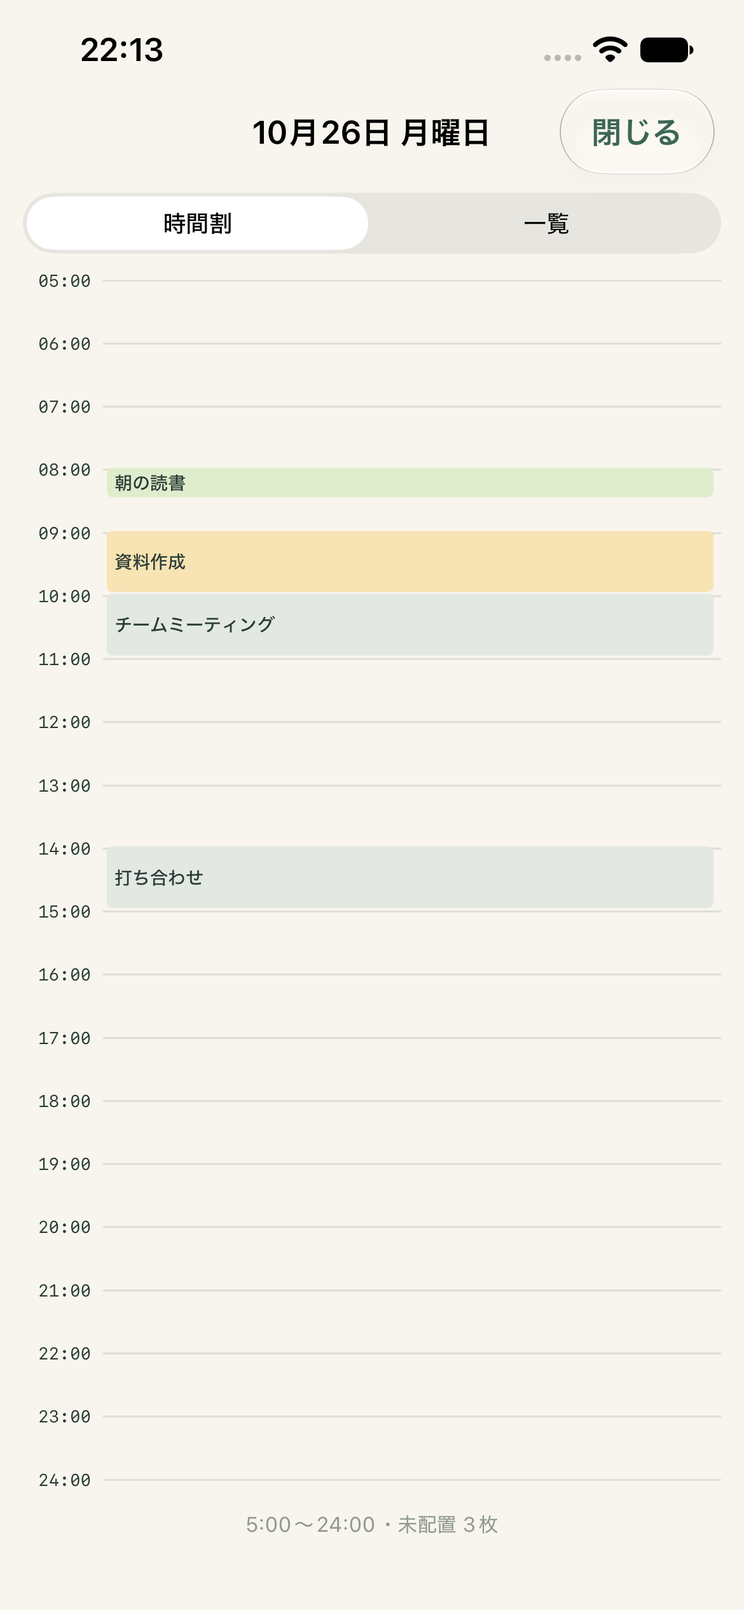
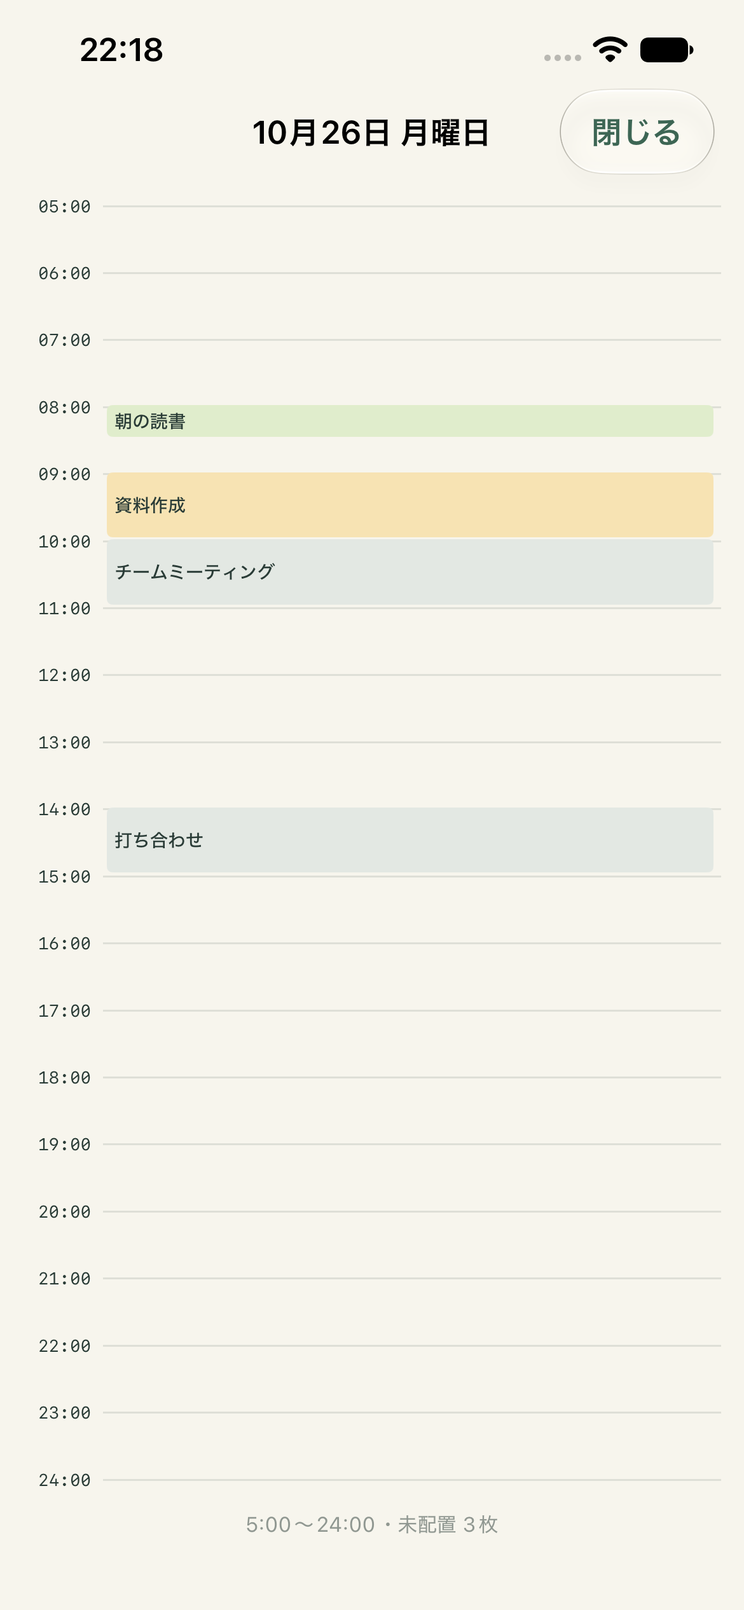
Simplify full-screen view to timetable only

diff --git a/docs/screenshots/index.html b/docs/screenshots/index.html
@@ -1,1 +1,1 @@
-<!doctype html><html lang="ja"><meta charset="utf-8"><meta name="viewport" content="width=device-width,initial-scale=1"><title>予定館・実機能確認</title><style>body{background:#f7f5ed;color:#293b35;font:15px system-ui;margin:32px}h1{font-size:24px}.grid{display:grid;grid-template-columns:repeat(auto-fit,minmax(240px,1fr));gap:28px}figure{margin:0}img{width:100%;max-width:390px;border-radius:24px;box-shadow:0 8px 32px #293b3520}figcaption{margin:12px 0 20px}p{line-height:1.8}</style><h1>予定館 / シミュレーター動作確認</h1><p>iPhone 17e・iOS 27。XCTestで実際に操作した画面です。デモ表記のある画面はサンプル予定、カレンダー画面はシミュレーターのEventKitに登録した検証用予定を使用しています。</p><div class="grid"><figure><a href="01-day-planner.png"><img src="01-day-planner.png" alt="01-day-planner"></a><figcaption>01-day-planner</figcaption></figure><figure><a href="02-presets.png"><img src="02-presets.png" alt="02-presets"></a><figcaption>02-presets</figcaption></figure><figure><a href="03-sticky-editor.png"><img src="03-sticky-editor.png" alt="03-sticky-editor"></a><figcaption>03-sticky-editor</figcaption></figure><figure><a href="04-overlap-after-drag.png"><img src="04-overlap-after-drag.png" alt="04-overlap-after-drag"></a><figcaption>04-overlap-after-drag</figcaption></figure><figure><a href="05-resize-overlap.png"><img src="05-resize-overlap.png" alt="05-resize-overlap"></a><figcaption>05-resize-overlap</figcaption></figure><figure><a href="06-day-overview.png"><img src="06-day-overview.png" alt="06-day-overview"></a><figcaption>06-day-overview</figcaption></figure><figure><a href="07-calendar-settings.png"><img src="07-calendar-settings.png" alt="07-calendar-settings"></a><figcaption>07-calendar-settings</figcaption></figure><figure><a href="08-real-calendar-events.png"><img src="08-real-calendar-events.png" alt="08-real-calendar-events"></a><figcaption>08-real-calendar-events</figcaption></figure><figure><a href="09-start-time-drag.png"><img src="09-start-time-drag.png" alt="09-start-time-drag"></a><figcaption>09-start-time-drag</figcaption></figure><figure><a href="10-swipe-next-day.png"><img src="10-swipe-next-day.png" alt="10-swipe-next-day"></a><figcaption>10-swipe-next-day</figcaption></figure><figure><a href="11-color-settings.png"><img src="11-color-settings.png" alt="11-color-settings"></a><figcaption>11-color-settings</figcaption></figure><figure><a href="12-named-color-picker.png"><img src="12-named-color-picker.png" alt="12-named-color-picker"></a><figcaption>12-named-color-picker</figcaption></figure><figure><a href="13-custom-colors.png"><img src="13-custom-colors.png" alt="13-custom-colors"></a><figcaption>13-custom-colors</figcaption></figure><figure><a href="14-expanded-color-picker.png"><img src="14-expanded-color-picker.png" alt="14-expanded-color-picker"></a><figcaption>14-expanded-color-picker</figcaption></figure><figure><a href="15-five-am-plan.png"><img src="15-five-am-plan.png" alt="15-five-am-plan"></a><figcaption>15-five-am-plan</figcaption></figure><figure><a href="16-planning-hours-settings.png"><img src="16-planning-hours-settings.png" alt="16-planning-hours-settings"></a><figcaption>16-planning-hours-settings</figcaption></figure><figure><a href="17-custom-hours-and-outside-sticky.png"><img src="17-custom-hours-and-outside-sticky.png" alt="17-custom-hours-and-outside-sticky"></a><figcaption>17-custom-hours-and-outside-sticky</figcaption></figure><figure><a href="18-two-zone-planner.png"><img src="18-two-zone-planner.png" alt="18-two-zone-planner"></a><figcaption>18-two-zone-planner</figcaption></figure><figure><a href="19-detail-memo.png"><img src="19-detail-memo.png" alt="19-detail-memo"></a><figcaption>19-detail-memo</figcaption></figure><figure><a href="20-three-zone-planner.png"><img src="20-three-zone-planner.png" alt="20-three-zone-planner"></a><figcaption>20-three-zone-planner</figcaption></figure><figure><a href="21-switch-to-schedule-details.png"><img src="21-switch-to-schedule-details.png" alt="21-switch-to-schedule-details"></a><figcaption>21-switch-to-schedule-details</figcaption></figure><figure><a href="22-five-minute-zoom.png"><img src="22-five-minute-zoom.png" alt="22-five-minute-zoom"></a><figcaption>22-five-minute-zoom</figcaption></figure><figure><a href="23-five-minute-standard.png"><img src="23-five-minute-standard.png" alt="23-five-minute-standard"></a><figcaption>23-five-minute-standard</figcaption></figure><figure><a href="24-pinch-timeline.png"><img src="24-pinch-timeline.png" alt="24-pinch-timeline"></a><figcaption>24-pinch-timeline</figcaption></figure><figure><a href="25-scroll-on-event.png"><img src="25-scroll-on-event.png" alt="25-scroll-on-event"></a><figcaption>25-scroll-on-event</figcaption></figure><figure><a href="26-daily-preset-count.png"><img src="26-daily-preset-count.png" alt="26-daily-preset-count"></a><figcaption>26-daily-preset-count</figcaption></figure><figure><a href="27-daily-stickies.png"><img src="27-daily-stickies.png" alt="27-daily-stickies"></a><figcaption>27-daily-stickies</figcaption></figure><figure><a href="28-fullscreen-day-timeline.png"><img src="28-fullscreen-day-timeline.png" alt="28-fullscreen-day-timeline"></a><figcaption>28-fullscreen-day-timeline</figcaption></figure><figure><a href="29-fullscreen-day-list.png"><img src="29-fullscreen-day-list.png" alt="29-fullscreen-day-list"></a><figcaption>29-fullscreen-day-list</figcaption></figure><figure><a href="30-fullscreen-entry.png"><img src="30-fullscreen-entry.png" alt="30-fullscreen-entry"></a><figcaption>30-fullscreen-entry</figcaption></figure></div></html>
+<!doctype html><html lang="ja"><meta charset="utf-8"><meta name="viewport" content="width=device-width,initial-scale=1"><title>予定館・実機能確認</title><style>body{background:#f7f5ed;color:#293b35;font:15px system-ui;margin:32px}h1{font-size:24px}.grid{display:grid;grid-template-columns:repeat(auto-fit,minmax(240px,1fr));gap:28px}figure{margin:0}img{width:100%;max-width:390px;border-radius:24px;box-shadow:0 8px 32px #293b3520}figcaption{margin:12px 0 20px}p{line-height:1.8}</style><h1>予定館 / シミュレーター動作確認</h1><p>iPhone 17e・iOS 27。XCTestで実際に操作した画面です。デモ表記のある画面はサンプル予定、カレンダー画面はシミュレーターのEventKitに登録した検証用予定を使用しています。</p><div class="grid"><figure><a href="01-day-planner.png"><img src="01-day-planner.png" alt="01-day-planner"></a><figcaption>01-day-planner</figcaption></figure><figure><a href="02-presets.png"><img src="02-presets.png" alt="02-presets"></a><figcaption>02-presets</figcaption></figure><figure><a href="03-sticky-editor.png"><img src="03-sticky-editor.png" alt="03-sticky-editor"></a><figcaption>03-sticky-editor</figcaption></figure><figure><a href="04-overlap-after-drag.png"><img src="04-overlap-after-drag.png" alt="04-overlap-after-drag"></a><figcaption>04-overlap-after-drag</figcaption></figure><figure><a href="05-resize-overlap.png"><img src="05-resize-overlap.png" alt="05-resize-overlap"></a><figcaption>05-resize-overlap</figcaption></figure><figure><a href="06-day-overview.png"><img src="06-day-overview.png" alt="06-day-overview"></a><figcaption>06-day-overview</figcaption></figure><figure><a href="07-calendar-settings.png"><img src="07-calendar-settings.png" alt="07-calendar-settings"></a><figcaption>07-calendar-settings</figcaption></figure><figure><a href="08-real-calendar-events.png"><img src="08-real-calendar-events.png" alt="08-real-calendar-events"></a><figcaption>08-real-calendar-events</figcaption></figure><figure><a href="09-start-time-drag.png"><img src="09-start-time-drag.png" alt="09-start-time-drag"></a><figcaption>09-start-time-drag</figcaption></figure><figure><a href="10-swipe-next-day.png"><img src="10-swipe-next-day.png" alt="10-swipe-next-day"></a><figcaption>10-swipe-next-day</figcaption></figure><figure><a href="11-color-settings.png"><img src="11-color-settings.png" alt="11-color-settings"></a><figcaption>11-color-settings</figcaption></figure><figure><a href="12-named-color-picker.png"><img src="12-named-color-picker.png" alt="12-named-color-picker"></a><figcaption>12-named-color-picker</figcaption></figure><figure><a href="13-custom-colors.png"><img src="13-custom-colors.png" alt="13-custom-colors"></a><figcaption>13-custom-colors</figcaption></figure><figure><a href="14-expanded-color-picker.png"><img src="14-expanded-color-picker.png" alt="14-expanded-color-picker"></a><figcaption>14-expanded-color-picker</figcaption></figure><figure><a href="15-five-am-plan.png"><img src="15-five-am-plan.png" alt="15-five-am-plan"></a><figcaption>15-five-am-plan</figcaption></figure><figure><a href="16-planning-hours-settings.png"><img src="16-planning-hours-settings.png" alt="16-planning-hours-settings"></a><figcaption>16-planning-hours-settings</figcaption></figure><figure><a href="17-custom-hours-and-outside-sticky.png"><img src="17-custom-hours-and-outside-sticky.png" alt="17-custom-hours-and-outside-sticky"></a><figcaption>17-custom-hours-and-outside-sticky</figcaption></figure><figure><a href="18-two-zone-planner.png"><img src="18-two-zone-planner.png" alt="18-two-zone-planner"></a><figcaption>18-two-zone-planner</figcaption></figure><figure><a href="19-detail-memo.png"><img src="19-detail-memo.png" alt="19-detail-memo"></a><figcaption>19-detail-memo</figcaption></figure><figure><a href="20-three-zone-planner.png"><img src="20-three-zone-planner.png" alt="20-three-zone-planner"></a><figcaption>20-three-zone-planner</figcaption></figure><figure><a href="21-switch-to-schedule-details.png"><img src="21-switch-to-schedule-details.png" alt="21-switch-to-schedule-details"></a><figcaption>21-switch-to-schedule-details</figcaption></figure><figure><a href="22-five-minute-zoom.png"><img src="22-five-minute-zoom.png" alt="22-five-minute-zoom"></a><figcaption>22-five-minute-zoom</figcaption></figure><figure><a href="23-five-minute-standard.png"><img src="23-five-minute-standard.png" alt="23-five-minute-standard"></a><figcaption>23-five-minute-standard</figcaption></figure><figure><a href="24-pinch-timeline.png"><img src="24-pinch-timeline.png" alt="24-pinch-timeline"></a><figcaption>24-pinch-timeline</figcaption></figure><figure><a href="25-scroll-on-event.png"><img src="25-scroll-on-event.png" alt="25-scroll-on-event"></a><figcaption>25-scroll-on-event</figcaption></figure><figure><a href="26-daily-preset-count.png"><img src="26-daily-preset-count.png" alt="26-daily-preset-count"></a><figcaption>26-daily-preset-count</figcaption></figure><figure><a href="27-daily-stickies.png"><img src="27-daily-stickies.png" alt="27-daily-stickies"></a><figcaption>27-daily-stickies</figcaption></figure><figure><a href="28-fullscreen-day-timeline.png"><img src="28-fullscreen-day-timeline.png" alt="28-fullscreen-day-timeline"></a><figcaption>28-fullscreen-day-timeline</figcaption></figure><figure><a href="30-fullscreen-entry.png"><img src="30-fullscreen-entry.png" alt="30-fullscreen-entry"></a><figcaption>30-fullscreen-entry</figcaption></figure></div></html>

diff --git a/ios/Yoteikan/PlannerView.swift b/ios/Yoteikan/PlannerView.swift
@@ -9,22 +9,20 @@ private struct FullDayOverview: View {
     let stickies: [Sticky]
     let fixed: [FixedEvent]
     let colors: [StickyColor]
-    @State private var listMode = false
     private struct Item: Identifiable {
         let id: String
         let title: String
         let start: Int
         let end: Int
         let tone: Int?
-        let memo: String
     }
     private var allItems: [Item] {
         let notes = stickies.compactMap { task -> Item? in
             guard let start = task.start else { return nil }
-            return Item(id: task.id.uuidString, title: task.title, start: start, end: start + task.minutes, tone: task.tone, memo: task.memo)
+            return Item(id: task.id.uuidString, title: task.title, start: start, end: start + task.minutes, tone: task.tone)
         }
         let events = fixed.filter { !$0.allDay }.map {
-            Item(id: "fixed-" + $0.id, title: $0.title, start: $0.start, end: $0.end, tone: nil, memo: "")
+            Item(id: "fixed-" + $0.id, title: $0.title, start: $0.start, end: $0.end, tone: nil)
         }
         return (notes + events).sorted {
             if $0.start != $1.start { return $0.start < $1.start }
@@ -45,23 +43,16 @@ private struct FullDayOverview: View {
     var body: some View {
         NavigationStack {
             VStack(spacing: 8) {
-                Picker("表示", selection: $listMode) {
-                    Text("時間割").tag(false)
-                    Text("一覧").tag(true)
-                }.pickerStyle(.segmented).padding(.horizontal, 12).accessibilityIdentifier("fullDayMode")
-                if listMode { scheduleList }
-                else {
-                    if !fixed.filter(\.allDay).isEmpty {
-                        ScrollView(.horizontal, showsIndicators: false) {
-                            HStack { ForEach(fixed.filter(\.allDay)) { event in
-                                Label(event.title, systemImage: "sun.max").font(.caption).padding(6).background(.white, in: Capsule())
-                            } }
-                        }.padding(.horizontal, 12)
-                    }
-                    fittedTimeline
-                    Text("\(hours.label)・未配置 \(unplaced.count)枚\(allItems.count == items.count ? "" : "・時間外 \(allItems.count - items.count)件")")
-                        .font(.caption2).foregroundStyle(.secondary).padding(.bottom, 4)
+                if !fixed.filter(\.allDay).isEmpty {
+                    ScrollView(.horizontal, showsIndicators: false) {
+                        HStack { ForEach(fixed.filter(\.allDay)) { event in
+                            Label(event.title, systemImage: "sun.max").font(.caption).padding(6).background(.white, in: Capsule())
+                        } }
+                    }.padding(.horizontal, 12)
                 }
+                fittedTimeline
+                Text("\(hours.label)・未配置 \(unplaced.count)枚\(allItems.count == items.count ? "" : "・時間外 \(allItems.count - items.count)件")")
+                    .font(.caption2).foregroundStyle(.secondary).padding(.bottom, 4)
             }.background(paper).foregroundStyle(ink)
                 .navigationTitle(date.formatted(.dateTime.month().day().weekday(.wide)))
                 .navigationBarTitleDisplayMode(.inline)
@@ -70,37 +61,6 @@ private struct FullDayOverview: View {
                 } }
                 .accessibilityElement(children: .contain).accessibilityIdentifier("fullDayOverview")
         }.tint(accent)
-    }
-    private var scheduleList: some View {
-        List {
-            if !fixed.filter(\.allDay).isEmpty {
-                Section("終日") { ForEach(fixed.filter(\.allDay)) { event in Label(event.title, systemImage: "sun.max") } }
-            }
-            Section("時間が決まっている予定") {
-                if allItems.isEmpty { Text("配置した予定はありません").foregroundStyle(.secondary) }
-                ForEach(allItems) { item in
-                    HStack(alignment: .top, spacing: 12) {
-                        VStack(alignment: .leading, spacing: 3) {
-                            Text(clockText(item.start))
-                            Text(clockText(item.end)).foregroundStyle(.secondary)
-                        }.font(.system(size: 12, design: .monospaced)).frame(width: 48, alignment: .leading)
-                        VStack(alignment: .leading, spacing: 5) {
-                            if item.tone == nil { Label(item.title, systemImage: "lock.fill") }
-                            else { Text(item.title).fontWeight(.medium) }
-                            Text(durationText(item.end - item.start)).font(.caption).foregroundStyle(.secondary)
-                            if !item.memo.isEmpty { Text(item.memo).font(.caption).foregroundStyle(.secondary) }
-                        }
-                    }.padding(.vertical, 3)
-                        .accessibilityElement(children: .combine).accessibilityIdentifier("fullDay-\(item.title)")
-                        .accessibilityValue("\(clockText(item.start))|\(item.end - item.start)")
-                }
-            }
-            if !unplaced.isEmpty {
-                Section("未配置") { ForEach(unplaced) { task in
-                    HStack { Text(task.title); Spacer(); Text(durationText(task.minutes)).font(.caption).foregroundStyle(.secondary) }
-                } }
-            }
-        }.scrollContentBackground(.hidden).accessibilityIdentifier("fullDayList")
     }
     private var fittedTimeline: some View {
         GeometryReader { geometry in

diff --git a/ios/YoteikanUITests/YoteikanUITests.swift b/ios/YoteikanUITests/YoteikanUITests.swift
@@ -683,7 +683,7 @@ final class YoteikanUITests: XCTestCase {
         app.buttons["edit-preset-読書"].tap()
         XCTAssertTrue(app.steppers["presetDailyCount"].label.contains("0"))
     }
-    func test26FullScreenDayTimelineListAndReturn() {
+    func test26FullScreenDayTimelineAndReturn() {
         launch()
         shot("30-fullscreen-entry")
         app.buttons["zoomIn"].tap()
@@ -699,14 +699,9 @@ final class YoteikanUITests: XCTestCase {
         XCTAssertTrue(fullTimeline.staticTexts["05:00"].isHittable)
         XCTAssertTrue(fullTimeline.staticTexts["24:00"].isHittable)
         XCTAssertTrue(fullTimeline.descendants(matching: .any).matching(identifier: "fullDayBlock-チームミーティング").firstMatch.exists)
-        app.segmentedControls["fullDayMode"].buttons["一覧"].tap()
-        XCTAssertTrue(app.descendants(matching: .any).matching(identifier: "fullDayList").firstMatch.exists)
-        let work = app.descendants(matching: .any).matching(identifier: "fullDay-資料作成").firstMatch
-        XCTAssertEqual(work.value as? String, "09:00|60")
-        shot("29-fullscreen-day-list")
+        XCTAssertFalse(app.segmentedControls["fullDayMode"].exists)
         XCUIDevice.shared.orientation = .landscapeLeft
         Thread.sleep(forTimeInterval: 1)
-        app.segmentedControls["fullDayMode"].buttons["時間割"].tap()
         XCTAssertTrue(fullTimeline.staticTexts["05:00"].isHittable)
         XCTAssertTrue(fullTimeline.staticTexts["24:00"].isHittable)
         XCUIDevice.shared.orientation = .portrait
@@ -719,21 +714,18 @@ final class YoteikanUITests: XCTestCase {
     func test27FullScreenShortNotesAndUnscheduledDay() {
         launch(["--demo", "--short-events-test"])
         app.buttons["fullDayButton"].tap()
-        app.segmentedControls["fullDayMode"].buttons["一覧"].tap()
-        let reading = app.descendants(matching: .any).matching(identifier: "fullDay-読書5分").firstMatch
-        let rest = app.descendants(matching: .any).matching(identifier: "fullDay-休憩5分").firstMatch
-        XCTAssertEqual(reading.value as? String, "08:00|5")
-        XCTAssertEqual(rest.value as? String, "08:05|5")
-        XCTAssertGreaterThan(reading.frame.height, 40)
+        let timeline = app.otherElements["fullDayTimeline"]
+        let reading = timeline.descendants(matching: .any).matching(identifier: "fullDayBlock-読書5分").firstMatch
+        let rest = timeline.descendants(matching: .any).matching(identifier: "fullDayBlock-休憩5分").firstMatch
+        XCTAssertTrue(reading.exists)
+        XCTAssertTrue(rest.exists)
         XCTAssertLessThanOrEqual(reading.frame.maxY, rest.frame.minY)
+        XCTAssertFalse(app.segmentedControls["fullDayMode"].exists)
         app.buttons["closeFullDay"].tap()
         XCTAssertEqual(app.otherElements["task-読書5分"].value as? String, "08:00|5")
         app.buttons["次の日"].tap()
         app.buttons["fullDayButton"].tap()
         XCTAssertTrue(app.staticTexts["予定を配置するとここに表示されます"].exists)
-        app.segmentedControls["fullDayMode"].buttons["一覧"].tap()
-        XCTAssertTrue(app.staticTexts["配置した予定はありません"].exists)
-        XCTAssertTrue(app.staticTexts["未配置"].exists)
         app.buttons["closeFullDay"].tap()
     }
     func test22PinchTimelinePreservesTimeAndTasks() {

diff --git a/README.md b/README.md
@@ -19,7 +19,7 @@
 - プリセットごとに毎日の個数を設定し、その日の付箋置き場へ自動追加。
 - iPhoneのカレンダーを読み込み、表示するカレンダーを選択。
 - 左右スワイプで前日・翌日へ移動。時間割をピンチして1〜8倍に拡大・縮小。
-- 下部の「1日一覧」で全画面表示。1日の時間割と、短い予定も読める一覧を切り替え。
+- 下部の「1日一覧」で1日の時間割を全画面表示。
 
 ## 起動する
 
@@ -39,9 +39,9 @@ macOSと、iOS 17以降をビルドできるXcodeが必要です。
 4. 配置した付箋をタップして選び、右上の↕を上下にドラッグして開始時刻を変更する。付箋全体を長押しして移動する方法も使える。下端のつまみでは長さを変更する。
 5. 右の付箋ゾーンへドラッグすると未配置へ戻る。右の付箋をタップすると、その場で予定の詳細に切り替わる。配置済みの付箋はタップで選択し、右の「詳細」で確認できる。
 6. 「元に戻す」で直前の変更を戻す。
-7. 下部の「1日一覧」をタップすると全画面で1日を確認できる。「時間割／一覧」で切り替え、「閉じる」で元の画面へ戻る。
+7. 下部の「1日一覧」をタップすると時間割を全画面で確認できる。「閉じる」で元の画面へ戻る。
 
-全画面の時間割は設定した開始〜終了時刻を画面内に収めます。一覧では時刻順に予定とメモを表示し、時間外・終日予定・未配置の付箋も確認できます。閲覧専用で、閉じた後も編集画面の倍率・選択状態を保ちます。
+全画面の時間割は設定した開始〜終了時刻を画面内に収めます。終日予定は上部、未配置・時間外の件数は下部に表示します。閲覧専用で、閉じた後も編集画面の倍率・選択状態を保ちます。
 
 プリセットの編集で「毎日の自動追加」を0〜20枚に設定できます（初期値1枚、0枚で停止）。例：歯磨き2枚、ごはん3枚。日付を開いたときやアプリへ戻ったときに、その日にまだ自動追加していない分だけ追加します。配置・編集・削除した付箋を再作成しません。個数を増やすと今日の不足分も追加し、減らしても追加済みの付箋は残します。＋ボタンはその日だけ追加で1枚増やします。既存の付箋をプリセット化した場合、その1枚を当日分として扱います。
 
@@ -64,7 +64,7 @@ macOSと、iOS 17以降をビルドできるXcodeが必要です。
 | [開発・検証手順](docs/development.md) | 技術構成、ビルド・テスト、Goによるスクショ出力、テスト用の起動引数 |
 | [動作確認](docs/verification.md) | 確認した操作、検証環境、実機で未確認の項目 |
 | [Issue #18〜#20](docs/issues-18-20.md) | 表示の削除、予定上のスクロール、毎日の自動追加 |
-| [スクリーンショット30枚](docs/screenshots/README.md) | 実際に操作して取得した画面 |
+| [スクリーンショット29枚](docs/screenshots/README.md) | 実際に操作して取得した画面 |
 | [テスト結果の抜粋](docs/test-results.txt) | 全体確認と、改善ごとの関連操作の検証記録 |
 
 ## 技術構成

diff --git a/docs/verification.md b/docs/verification.md
@@ -7,11 +7,11 @@ Issue #18・#19・#20を含め、ユニット23件・UI25件の全48件が成功
 ## 1日一覧の全画面表示
 
 - 下部の「1日一覧」で開き、時間割が画面幅の85%以上を使い、開始・終了時刻が同時に見えることを確認。
-- 「時間割／一覧」の切り替え、縦横画面、閉じた後の倍率・選択・予定の保持を確認。
-- 5分予定の一覧行が重ならないこと、予定のない日・未配置付箋の表示を確認。
+- 表示切り替えタブがないこと、縦横画面、閉じた後の倍率・選択・予定の保持を確認。
+- 5分予定が時間枠内に収まって重ならないこと、予定のない日の表示を確認。
 - 新規UIテスト2件が成功。既存の5分予定の拡大・移動・伸縮テストも成功。
-- 結果: artifacts/FullDayVerified.xcresult / artifacts/full-day-verified.log。既存テストは artifacts/full-day-overview.log。テストの要素検索を全画面内に絞る調整を行って再実行。実機は未確認。
-- [ボタン](screenshots/30-fullscreen-entry.png) / [時間割](screenshots/28-fullscreen-day-timeline.png) / [一覧](screenshots/29-fullscreen-day-list.png)。
+- 結果: artifacts/FullDayTimelineOnly.xcresult / artifacts/full-day-timeline-only.log。既存テストは artifacts/full-day-overview.log。時間割だけの構成に更新して再実行。実機は未確認。
+- [ボタン](screenshots/30-fullscreen-entry.png) / [時間割](screenshots/28-fullscreen-day-timeline.png)。
 
 ## Issue #18・#19・#20
 

diff --git a/docs/design.md b/docs/design.md
@@ -121,7 +121,7 @@ SwiftUIの状態管理とPlanStore / CalendarStoreで構成し、バックエン
 
 ## 1日の全画面表示
 
-下部の「1日一覧」から閲覧専用の全画面を開く。初期表示は時間割で、設定時間帯全体が画面内に収まる。付箋置き場・メモ編集・通常の操作列を隠し、重なる予定は並列に配置する。短い予定の文字を無理に広げず、「一覧」へ切り替えると時刻順の読みやすい行で詳細を確認できる。一覧には設定時間外の予定・終日予定・未配置付箋も含める。
+下部の「1日一覧」から閲覧専用の全画面を開く。時間割のみを表示し、設定時間帯全体が画面内に収まる。付箋置き場・メモ編集・通常の操作列を隠し、重なる予定は並列に配置する。短い予定の文字を無理に広げず、実際の時間枠に収める。終日予定は上部に表示し、未配置・時間外は下部に件数を表示する。表示切り替えタブは置かない。
 
 表示時点の予定を受け取る独立した画面とし、閲覧中に予定を編集しない。「閉じる」で元の倍率・選択・メモ下書きを保持した編集画面へ戻る。
 
